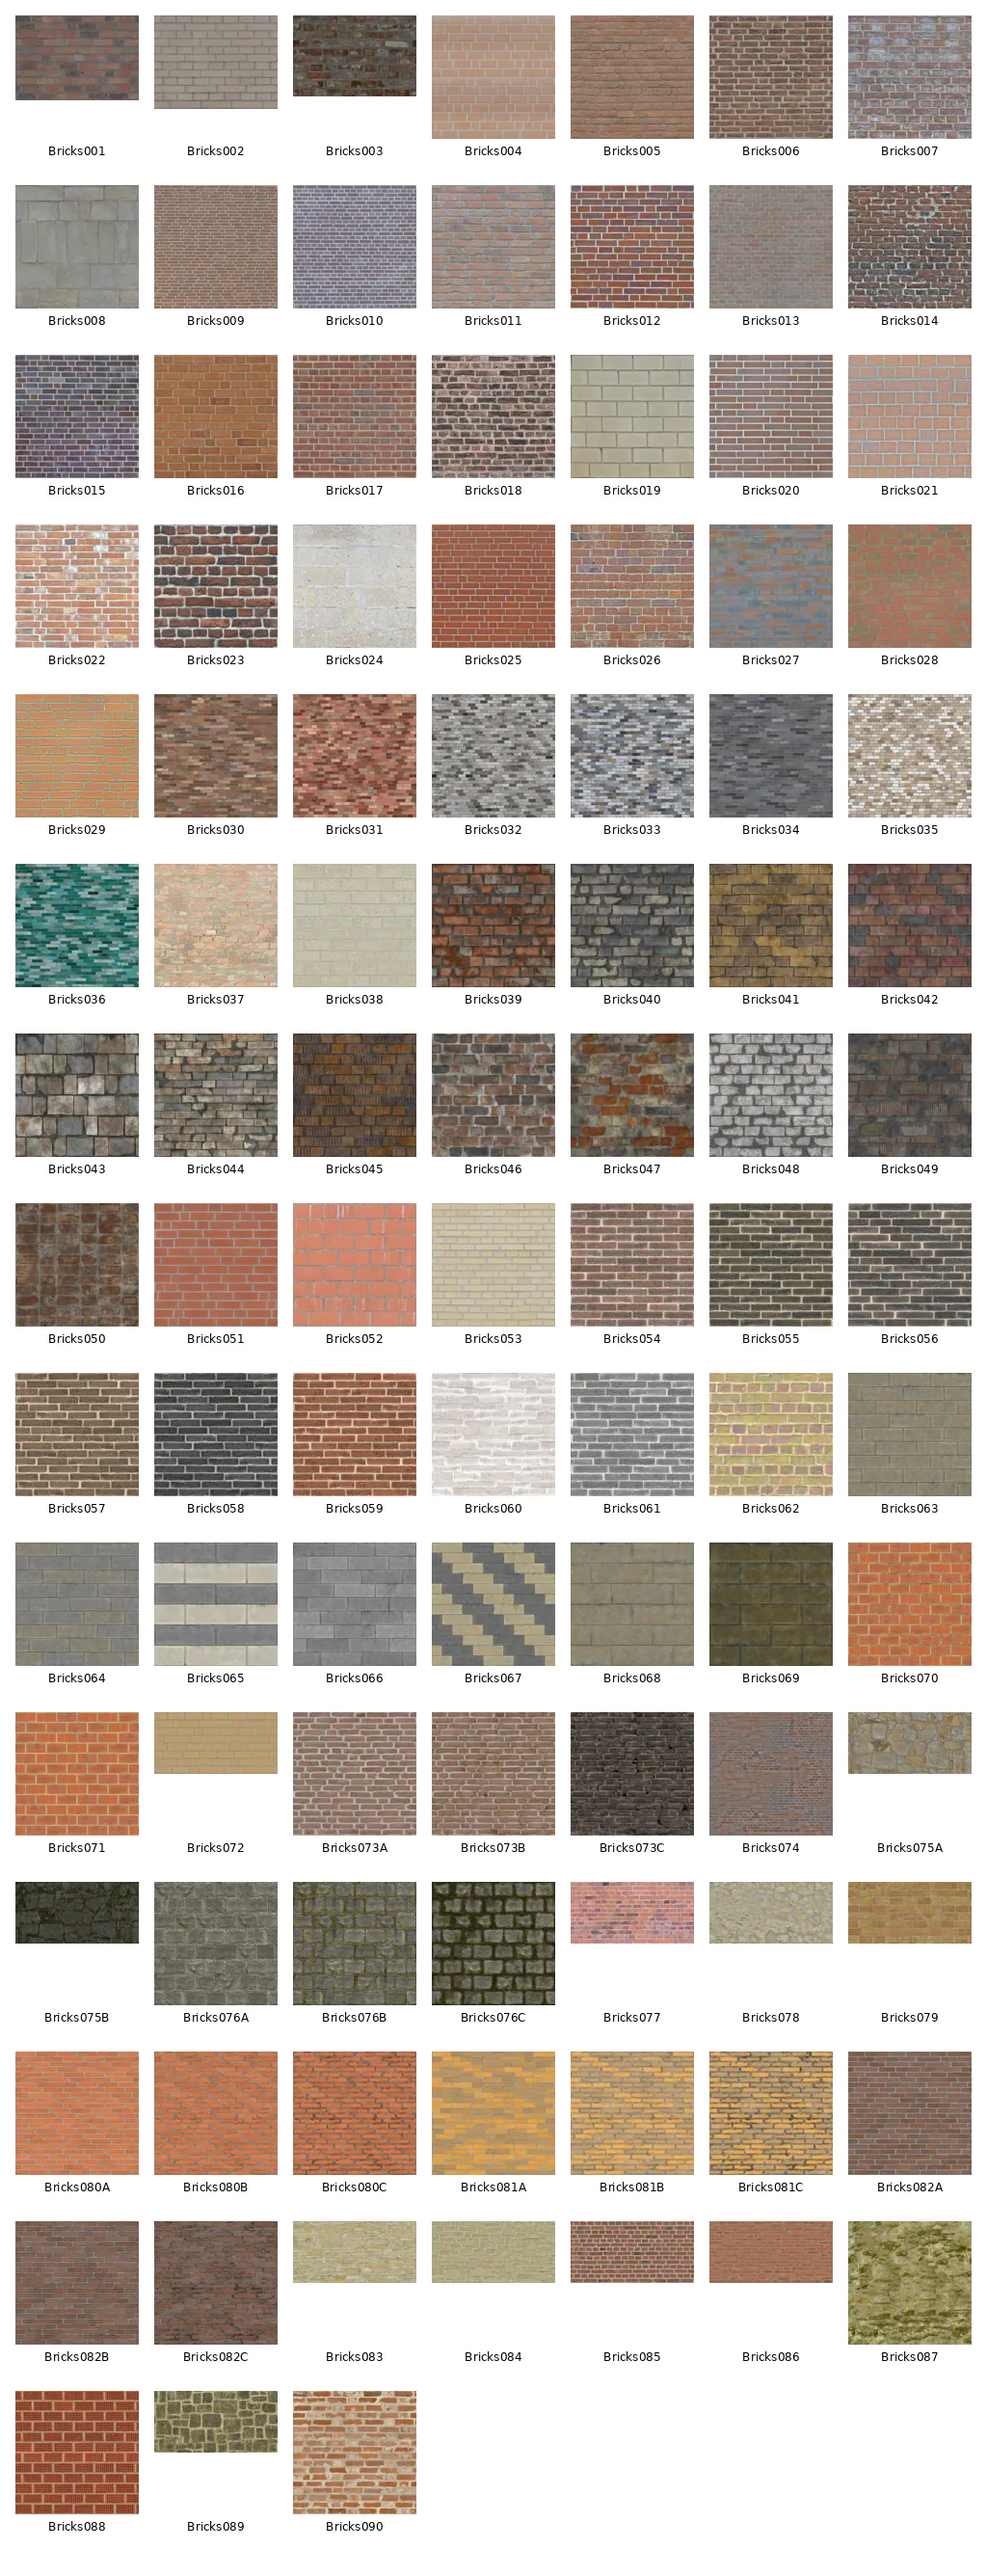
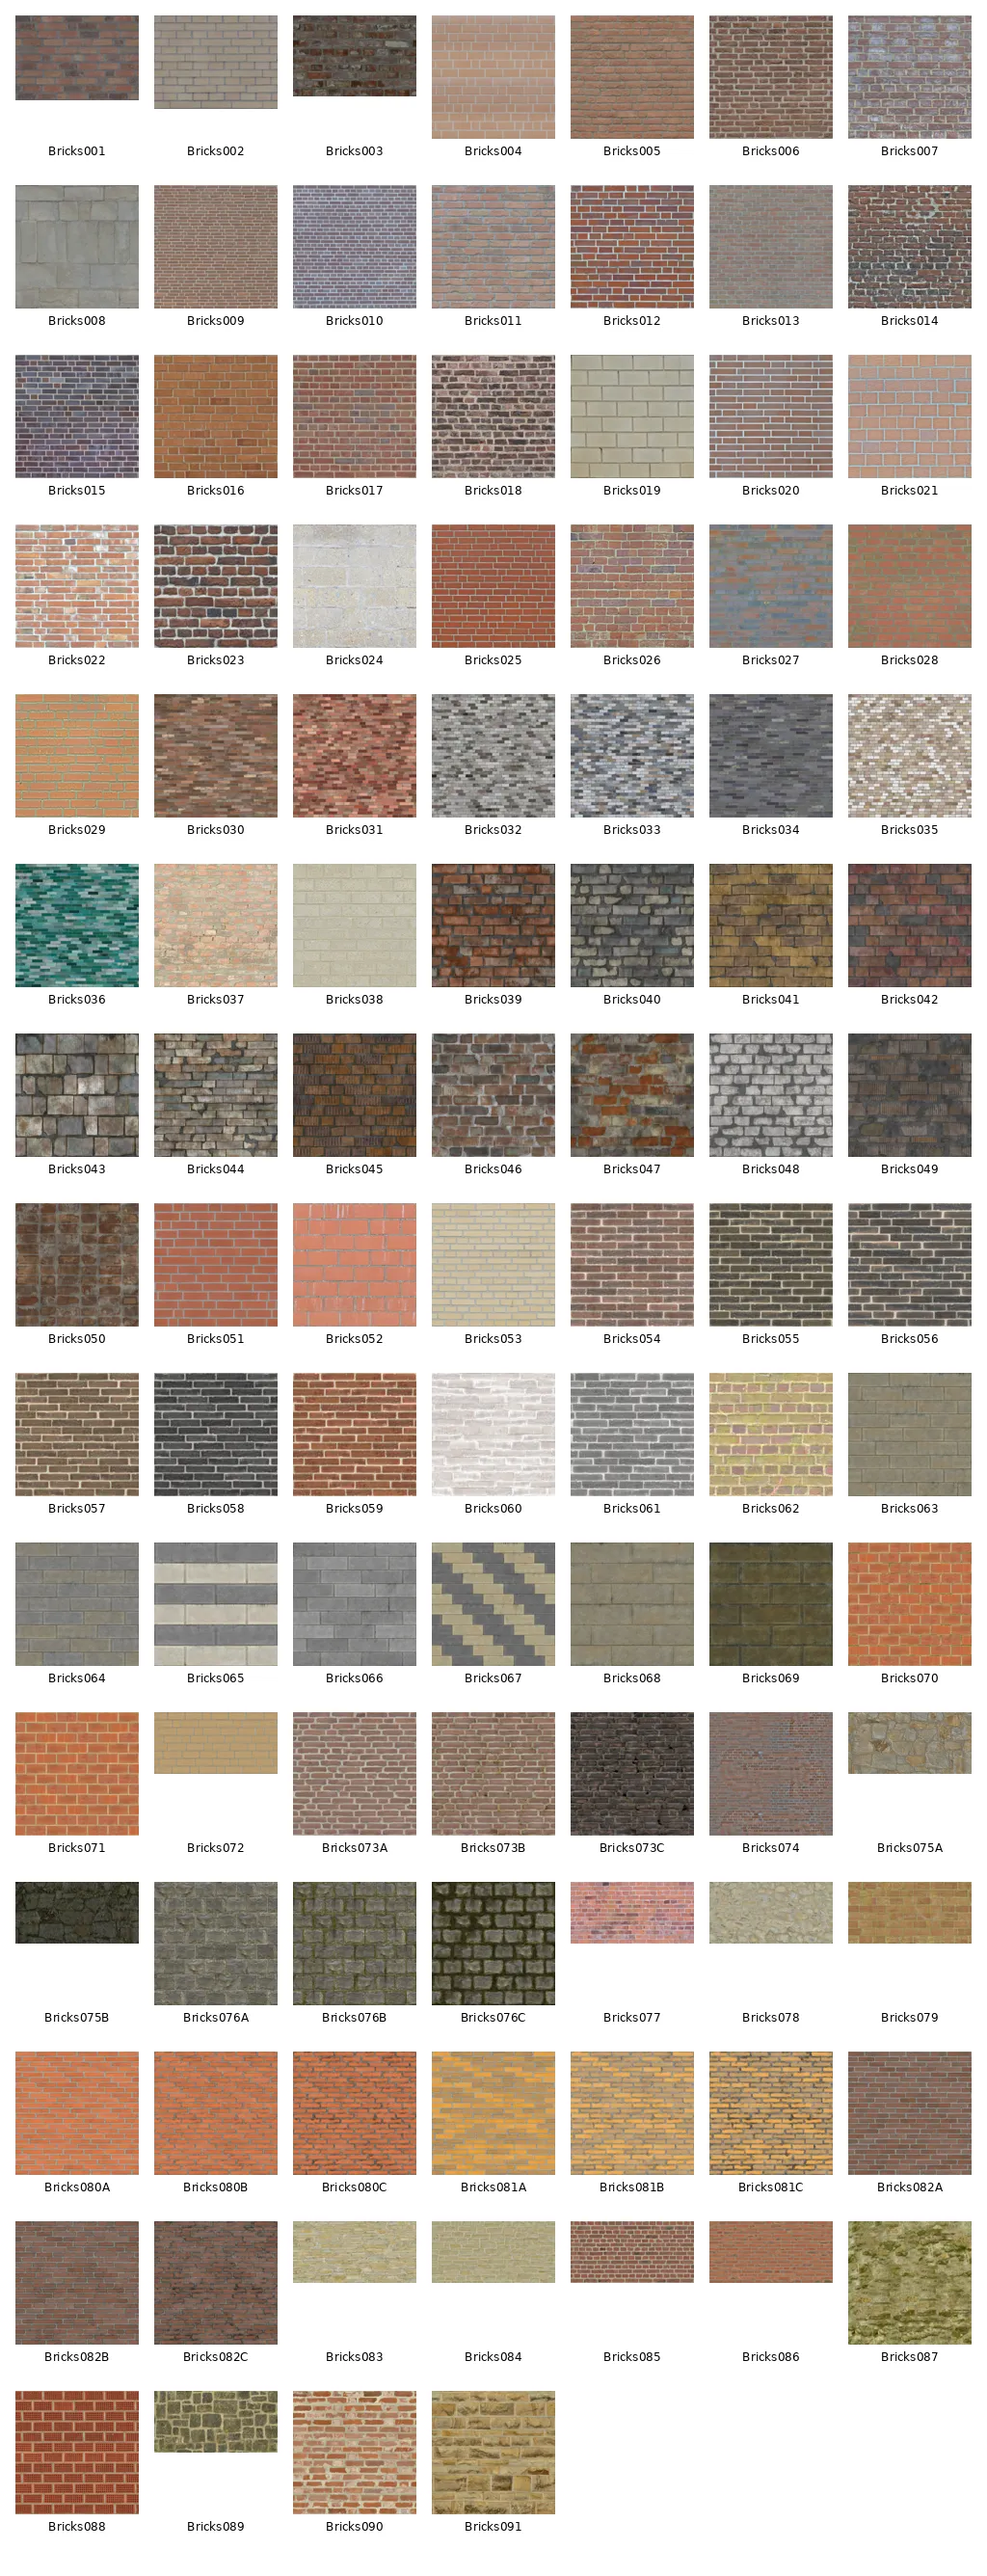
version: v2024.03.27

Changed region(s): [[0.4375, 0.9008, 0.5625, 0.994]]

diff --git a/README.md b/README.md
@@ -5,17 +5,17 @@ The texture are resized to 3 sizes, so you can choose quality.
 
 3 qualities available: 256, 512 and 1024 pixels width.
 
-Current version: 2024.02.29<br>
-Total textures: 1365
+Current version: 2024.03.27<br>
+Total textures: 1369
 
 ## Install
 
 Just download the .sh3t file you want and use the texture library import feature from Sweethome3D from "Furniture" menu.
 
 
-* [ambientcg_1024.sh3t](https://fenouil-drive.mycozy.cloud/public?sharecode=QyiDq6EIACQi) - 203.1 MB
+* [ambientcg_1024.sh3t](https://fenouil-drive.mycozy.cloud/public?sharecode=QyiDq6EIACQi) - 203.9 MB
 
-* [ambientcg_512.sh3t](https://fenouil-drive.mycozy.cloud/public?sharecode=u2Ps0zAB8cij) - 52.8 MB
+* [ambientcg_512.sh3t](https://fenouil-drive.mycozy.cloud/public?sharecode=u2Ps0zAB8cij) - 53.0 MB
 
 * [ambientcg_256.sh3t](https://fenouil-drive.mycozy.cloud/public?sharecode=3gsbVKG3PFBM) - 14.0 MB
 
@@ -56,260 +56,260 @@ The current code and content follow the same licence.
 
 ### Asphalt
 <picture>
-  <img alt="Preview of Asphalt" src="https://raw.githubusercontent.com/fabien-michel/sweethome3d-textures-ambientcg/v2024.02.29/previews/Asphalt.webp">
+  <img alt="Preview of Asphalt" src="https://raw.githubusercontent.com/fabien-michel/sweethome3d-textures-ambientcg/v2024.03.27/previews/Asphalt.webp">
 </picture>
 
 ### Bamboo
 <picture>
-  <img alt="Preview of Bamboo" src="https://raw.githubusercontent.com/fabien-michel/sweethome3d-textures-ambientcg/v2024.02.29/previews/Bamboo.webp">
+  <img alt="Preview of Bamboo" src="https://raw.githubusercontent.com/fabien-michel/sweethome3d-textures-ambientcg/v2024.03.27/previews/Bamboo.webp">
 </picture>
 
 ### Bark
 <picture>
-  <img alt="Preview of Bark" src="https://raw.githubusercontent.com/fabien-michel/sweethome3d-textures-ambientcg/v2024.02.29/previews/Bark.webp">
+  <img alt="Preview of Bark" src="https://raw.githubusercontent.com/fabien-michel/sweethome3d-textures-ambientcg/v2024.03.27/previews/Bark.webp">
 </picture>
 
 ### Bricks
 <picture>
-  <img alt="Preview of Bricks" src="https://raw.githubusercontent.com/fabien-michel/sweethome3d-textures-ambientcg/v2024.02.29/previews/Bricks.webp">
+  <img alt="Preview of Bricks" src="https://raw.githubusercontent.com/fabien-michel/sweethome3d-textures-ambientcg/v2024.03.27/previews/Bricks.webp">
 </picture>
 
 ### Cardboard
 <picture>
-  <img alt="Preview of Cardboard" src="https://raw.githubusercontent.com/fabien-michel/sweethome3d-textures-ambientcg/v2024.02.29/previews/Cardboard.webp">
+  <img alt="Preview of Cardboard" src="https://raw.githubusercontent.com/fabien-michel/sweethome3d-textures-ambientcg/v2024.03.27/previews/Cardboard.webp">
 </picture>
 
 ### Carpet
 <picture>
-  <img alt="Preview of Carpet" src="https://raw.githubusercontent.com/fabien-michel/sweethome3d-textures-ambientcg/v2024.02.29/previews/Carpet.webp">
+  <img alt="Preview of Carpet" src="https://raw.githubusercontent.com/fabien-michel/sweethome3d-textures-ambientcg/v2024.03.27/previews/Carpet.webp">
 </picture>
 
 ### Chainmail
 <picture>
-  <img alt="Preview of Chainmail" src="https://raw.githubusercontent.com/fabien-michel/sweethome3d-textures-ambientcg/v2024.02.29/previews/Chainmail.webp">
+  <img alt="Preview of Chainmail" src="https://raw.githubusercontent.com/fabien-michel/sweethome3d-textures-ambientcg/v2024.03.27/previews/Chainmail.webp">
 </picture>
 
 ### Chipboard
 <picture>
-  <img alt="Preview of Chipboard" src="https://raw.githubusercontent.com/fabien-michel/sweethome3d-textures-ambientcg/v2024.02.29/previews/Chipboard.webp">
+  <img alt="Preview of Chipboard" src="https://raw.githubusercontent.com/fabien-michel/sweethome3d-textures-ambientcg/v2024.03.27/previews/Chipboard.webp">
 </picture>
 
 ### Clay
 <picture>
-  <img alt="Preview of Clay" src="https://raw.githubusercontent.com/fabien-michel/sweethome3d-textures-ambientcg/v2024.02.29/previews/Clay.webp">
+  <img alt="Preview of Clay" src="https://raw.githubusercontent.com/fabien-michel/sweethome3d-textures-ambientcg/v2024.03.27/previews/Clay.webp">
 </picture>
 
 ### Concrete
 <picture>
-  <img alt="Preview of Concrete" src="https://raw.githubusercontent.com/fabien-michel/sweethome3d-textures-ambientcg/v2024.02.29/previews/Concrete.webp">
+  <img alt="Preview of Concrete" src="https://raw.githubusercontent.com/fabien-michel/sweethome3d-textures-ambientcg/v2024.03.27/previews/Concrete.webp">
 </picture>
 
 ### Cork
 <picture>
-  <img alt="Preview of Cork" src="https://raw.githubusercontent.com/fabien-michel/sweethome3d-textures-ambientcg/v2024.02.29/previews/Cork.webp">
+  <img alt="Preview of Cork" src="https://raw.githubusercontent.com/fabien-michel/sweethome3d-textures-ambientcg/v2024.03.27/previews/Cork.webp">
 </picture>
 
 ### CorrugatedSteel
 <picture>
-  <img alt="Preview of CorrugatedSteel" src="https://raw.githubusercontent.com/fabien-michel/sweethome3d-textures-ambientcg/v2024.02.29/previews/CorrugatedSteel.webp">
+  <img alt="Preview of CorrugatedSteel" src="https://raw.githubusercontent.com/fabien-michel/sweethome3d-textures-ambientcg/v2024.03.27/previews/CorrugatedSteel.webp">
 </picture>
 
 ### DiamondPlate
 <picture>
-  <img alt="Preview of DiamondPlate" src="https://raw.githubusercontent.com/fabien-michel/sweethome3d-textures-ambientcg/v2024.02.29/previews/DiamondPlate.webp">
+  <img alt="Preview of DiamondPlate" src="https://raw.githubusercontent.com/fabien-michel/sweethome3d-textures-ambientcg/v2024.03.27/previews/DiamondPlate.webp">
 </picture>
 
 ### Fabric
 <picture>
-  <img alt="Preview of Fabric" src="https://raw.githubusercontent.com/fabien-michel/sweethome3d-textures-ambientcg/v2024.02.29/previews/Fabric.webp">
+  <img alt="Preview of Fabric" src="https://raw.githubusercontent.com/fabien-michel/sweethome3d-textures-ambientcg/v2024.03.27/previews/Fabric.webp">
 </picture>
 
 ### Foil
 <picture>
-  <img alt="Preview of Foil" src="https://raw.githubusercontent.com/fabien-michel/sweethome3d-textures-ambientcg/v2024.02.29/previews/Foil.webp">
+  <img alt="Preview of Foil" src="https://raw.githubusercontent.com/fabien-michel/sweethome3d-textures-ambientcg/v2024.03.27/previews/Foil.webp">
 </picture>
 
 ### GlazedTerracotta
 <picture>
-  <img alt="Preview of GlazedTerracotta" src="https://raw.githubusercontent.com/fabien-michel/sweethome3d-textures-ambientcg/v2024.02.29/previews/GlazedTerracotta.webp">
+  <img alt="Preview of GlazedTerracotta" src="https://raw.githubusercontent.com/fabien-michel/sweethome3d-textures-ambientcg/v2024.03.27/previews/GlazedTerracotta.webp">
 </picture>
 
 ### Granite
 <picture>
-  <img alt="Preview of Granite" src="https://raw.githubusercontent.com/fabien-michel/sweethome3d-textures-ambientcg/v2024.02.29/previews/Granite.webp">
+  <img alt="Preview of Granite" src="https://raw.githubusercontent.com/fabien-michel/sweethome3d-textures-ambientcg/v2024.03.27/previews/Granite.webp">
 </picture>
 
 ### Grass
 <picture>
-  <img alt="Preview of Grass" src="https://raw.githubusercontent.com/fabien-michel/sweethome3d-textures-ambientcg/v2024.02.29/previews/Grass.webp">
+  <img alt="Preview of Grass" src="https://raw.githubusercontent.com/fabien-michel/sweethome3d-textures-ambientcg/v2024.03.27/previews/Grass.webp">
 </picture>
 
 ### Gravel
 <picture>
-  <img alt="Preview of Gravel" src="https://raw.githubusercontent.com/fabien-michel/sweethome3d-textures-ambientcg/v2024.02.29/previews/Gravel.webp">
+  <img alt="Preview of Gravel" src="https://raw.githubusercontent.com/fabien-michel/sweethome3d-textures-ambientcg/v2024.03.27/previews/Gravel.webp">
 </picture>
 
 ### Ground
 <picture>
-  <img alt="Preview of Ground" src="https://raw.githubusercontent.com/fabien-michel/sweethome3d-textures-ambientcg/v2024.02.29/previews/Ground.webp">
+  <img alt="Preview of Ground" src="https://raw.githubusercontent.com/fabien-michel/sweethome3d-textures-ambientcg/v2024.03.27/previews/Ground.webp">
 </picture>
 
 ### Logs
 <picture>
-  <img alt="Preview of Logs" src="https://raw.githubusercontent.com/fabien-michel/sweethome3d-textures-ambientcg/v2024.02.29/previews/Logs.webp">
+  <img alt="Preview of Logs" src="https://raw.githubusercontent.com/fabien-michel/sweethome3d-textures-ambientcg/v2024.03.27/previews/Logs.webp">
 </picture>
 
 ### Marble
 <picture>
-  <img alt="Preview of Marble" src="https://raw.githubusercontent.com/fabien-michel/sweethome3d-textures-ambientcg/v2024.02.29/previews/Marble.webp">
+  <img alt="Preview of Marble" src="https://raw.githubusercontent.com/fabien-michel/sweethome3d-textures-ambientcg/v2024.03.27/previews/Marble.webp">
 </picture>
 
 ### Metal
 <picture>
-  <img alt="Preview of Metal" src="https://raw.githubusercontent.com/fabien-michel/sweethome3d-textures-ambientcg/v2024.02.29/previews/Metal.webp">
+  <img alt="Preview of Metal" src="https://raw.githubusercontent.com/fabien-michel/sweethome3d-textures-ambientcg/v2024.03.27/previews/Metal.webp">
 </picture>
 
 ### Moss
 <picture>
-  <img alt="Preview of Moss" src="https://raw.githubusercontent.com/fabien-michel/sweethome3d-textures-ambientcg/v2024.02.29/previews/Moss.webp">
+  <img alt="Preview of Moss" src="https://raw.githubusercontent.com/fabien-michel/sweethome3d-textures-ambientcg/v2024.03.27/previews/Moss.webp">
 </picture>
 
 ### Net
 <picture>
-  <img alt="Preview of Net" src="https://raw.githubusercontent.com/fabien-michel/sweethome3d-textures-ambientcg/v2024.02.29/previews/Net.webp">
+  <img alt="Preview of Net" src="https://raw.githubusercontent.com/fabien-michel/sweethome3d-textures-ambientcg/v2024.03.27/previews/Net.webp">
 </picture>
 
 ### OfficeCeiling
 <picture>
-  <img alt="Preview of OfficeCeiling" src="https://raw.githubusercontent.com/fabien-michel/sweethome3d-textures-ambientcg/v2024.02.29/previews/OfficeCeiling.webp">
+  <img alt="Preview of OfficeCeiling" src="https://raw.githubusercontent.com/fabien-michel/sweethome3d-textures-ambientcg/v2024.03.27/previews/OfficeCeiling.webp">
 </picture>
 
 ### Paint
 <picture>
-  <img alt="Preview of Paint" src="https://raw.githubusercontent.com/fabien-michel/sweethome3d-textures-ambientcg/v2024.02.29/previews/Paint.webp">
+  <img alt="Preview of Paint" src="https://raw.githubusercontent.com/fabien-michel/sweethome3d-textures-ambientcg/v2024.03.27/previews/Paint.webp">
 </picture>
 
 ### Paper
 <picture>
-  <img alt="Preview of Paper" src="https://raw.githubusercontent.com/fabien-michel/sweethome3d-textures-ambientcg/v2024.02.29/previews/Paper.webp">
+  <img alt="Preview of Paper" src="https://raw.githubusercontent.com/fabien-michel/sweethome3d-textures-ambientcg/v2024.03.27/previews/Paper.webp">
 </picture>
 
 ### PavingStones
 <picture>
-  <img alt="Preview of PavingStones" src="https://raw.githubusercontent.com/fabien-michel/sweethome3d-textures-ambientcg/v2024.02.29/previews/PavingStones.webp">
+  <img alt="Preview of PavingStones" src="https://raw.githubusercontent.com/fabien-michel/sweethome3d-textures-ambientcg/v2024.03.27/previews/PavingStones.webp">
 </picture>
 
 ### Planks
 <picture>
-  <img alt="Preview of Planks" src="https://raw.githubusercontent.com/fabien-michel/sweethome3d-textures-ambientcg/v2024.02.29/previews/Planks.webp">
+  <img alt="Preview of Planks" src="https://raw.githubusercontent.com/fabien-michel/sweethome3d-textures-ambientcg/v2024.03.27/previews/Planks.webp">
 </picture>
 
 ### Plaster
 <picture>
-  <img alt="Preview of Plaster" src="https://raw.githubusercontent.com/fabien-michel/sweethome3d-textures-ambientcg/v2024.02.29/previews/Plaster.webp">
+  <img alt="Preview of Plaster" src="https://raw.githubusercontent.com/fabien-michel/sweethome3d-textures-ambientcg/v2024.03.27/previews/Plaster.webp">
 </picture>
 
 ### Plastic
 <picture>
-  <img alt="Preview of Plastic" src="https://raw.githubusercontent.com/fabien-michel/sweethome3d-textures-ambientcg/v2024.02.29/previews/Plastic.webp">
+  <img alt="Preview of Plastic" src="https://raw.githubusercontent.com/fabien-michel/sweethome3d-textures-ambientcg/v2024.03.27/previews/Plastic.webp">
 </picture>
 
 ### Porcelain
 <picture>
-  <img alt="Preview of Porcelain" src="https://raw.githubusercontent.com/fabien-michel/sweethome3d-textures-ambientcg/v2024.02.29/previews/Porcelain.webp">
+  <img alt="Preview of Porcelain" src="https://raw.githubusercontent.com/fabien-michel/sweethome3d-textures-ambientcg/v2024.03.27/previews/Porcelain.webp">
 </picture>
 
 ### Road
 <picture>
-  <img alt="Preview of Road" src="https://raw.githubusercontent.com/fabien-michel/sweethome3d-textures-ambientcg/v2024.02.29/previews/Road.webp">
+  <img alt="Preview of Road" src="https://raw.githubusercontent.com/fabien-michel/sweethome3d-textures-ambientcg/v2024.03.27/previews/Road.webp">
 </picture>
 
 ### Rock
 <picture>
-  <img alt="Preview of Rock" src="https://raw.githubusercontent.com/fabien-michel/sweethome3d-textures-ambientcg/v2024.02.29/previews/Rock.webp">
+  <img alt="Preview of Rock" src="https://raw.githubusercontent.com/fabien-michel/sweethome3d-textures-ambientcg/v2024.03.27/previews/Rock.webp">
 </picture>
 
 ### Rocks
 <picture>
-  <img alt="Preview of Rocks" src="https://raw.githubusercontent.com/fabien-michel/sweethome3d-textures-ambientcg/v2024.02.29/previews/Rocks.webp">
+  <img alt="Preview of Rocks" src="https://raw.githubusercontent.com/fabien-michel/sweethome3d-textures-ambientcg/v2024.03.27/previews/Rocks.webp">
 </picture>
 
 ### RoofingTiles
 <picture>
-  <img alt="Preview of RoofingTiles" src="https://raw.githubusercontent.com/fabien-michel/sweethome3d-textures-ambientcg/v2024.02.29/previews/RoofingTiles.webp">
+  <img alt="Preview of RoofingTiles" src="https://raw.githubusercontent.com/fabien-michel/sweethome3d-textures-ambientcg/v2024.03.27/previews/RoofingTiles.webp">
 </picture>
 
 ### Rubber
 <picture>
-  <img alt="Preview of Rubber" src="https://raw.githubusercontent.com/fabien-michel/sweethome3d-textures-ambientcg/v2024.02.29/previews/Rubber.webp">
+  <img alt="Preview of Rubber" src="https://raw.githubusercontent.com/fabien-michel/sweethome3d-textures-ambientcg/v2024.03.27/previews/Rubber.webp">
 </picture>
 
 ### Rust
 <picture>
-  <img alt="Preview of Rust" src="https://raw.githubusercontent.com/fabien-michel/sweethome3d-textures-ambientcg/v2024.02.29/previews/Rust.webp">
+  <img alt="Preview of Rust" src="https://raw.githubusercontent.com/fabien-michel/sweethome3d-textures-ambientcg/v2024.03.27/previews/Rust.webp">
 </picture>
 
 ### ScatteredLeaves
 <picture>
-  <img alt="Preview of ScatteredLeaves" src="https://raw.githubusercontent.com/fabien-michel/sweethome3d-textures-ambientcg/v2024.02.29/previews/ScatteredLeaves.webp">
+  <img alt="Preview of ScatteredLeaves" src="https://raw.githubusercontent.com/fabien-michel/sweethome3d-textures-ambientcg/v2024.03.27/previews/ScatteredLeaves.webp">
 </picture>
 
 ### Snow
 <picture>
-  <img alt="Preview of Snow" src="https://raw.githubusercontent.com/fabien-michel/sweethome3d-textures-ambientcg/v2024.02.29/previews/Snow.webp">
+  <img alt="Preview of Snow" src="https://raw.githubusercontent.com/fabien-michel/sweethome3d-textures-ambientcg/v2024.03.27/previews/Snow.webp">
 </picture>
 
 ### SolarPanel
 <picture>
-  <img alt="Preview of SolarPanel" src="https://raw.githubusercontent.com/fabien-michel/sweethome3d-textures-ambientcg/v2024.02.29/previews/SolarPanel.webp">
+  <img alt="Preview of SolarPanel" src="https://raw.githubusercontent.com/fabien-michel/sweethome3d-textures-ambientcg/v2024.03.27/previews/SolarPanel.webp">
 </picture>
 
 ### Tatami
 <picture>
-  <img alt="Preview of Tatami" src="https://raw.githubusercontent.com/fabien-michel/sweethome3d-textures-ambientcg/v2024.02.29/previews/Tatami.webp">
+  <img alt="Preview of Tatami" src="https://raw.githubusercontent.com/fabien-michel/sweethome3d-textures-ambientcg/v2024.03.27/previews/Tatami.webp">
 </picture>
 
 ### Terrazzo
 <picture>
-  <img alt="Preview of Terrazzo" src="https://raw.githubusercontent.com/fabien-michel/sweethome3d-textures-ambientcg/v2024.02.29/previews/Terrazzo.webp">
+  <img alt="Preview of Terrazzo" src="https://raw.githubusercontent.com/fabien-michel/sweethome3d-textures-ambientcg/v2024.03.27/previews/Terrazzo.webp">
 </picture>
 
 ### ThatchedRoof
 <picture>
-  <img alt="Preview of ThatchedRoof" src="https://raw.githubusercontent.com/fabien-michel/sweethome3d-textures-ambientcg/v2024.02.29/previews/ThatchedRoof.webp">
+  <img alt="Preview of ThatchedRoof" src="https://raw.githubusercontent.com/fabien-michel/sweethome3d-textures-ambientcg/v2024.03.27/previews/ThatchedRoof.webp">
 </picture>
 
 ### Tiles
 <picture>
-  <img alt="Preview of Tiles" src="https://raw.githubusercontent.com/fabien-michel/sweethome3d-textures-ambientcg/v2024.02.29/previews/Tiles.webp">
+  <img alt="Preview of Tiles" src="https://raw.githubusercontent.com/fabien-michel/sweethome3d-textures-ambientcg/v2024.03.27/previews/Tiles.webp">
 </picture>
 
 ### Travertine
 <picture>
-  <img alt="Preview of Travertine" src="https://raw.githubusercontent.com/fabien-michel/sweethome3d-textures-ambientcg/v2024.02.29/previews/Travertine.webp">
+  <img alt="Preview of Travertine" src="https://raw.githubusercontent.com/fabien-michel/sweethome3d-textures-ambientcg/v2024.03.27/previews/Travertine.webp">
 </picture>
 
 ### Wallpaper
 <picture>
-  <img alt="Preview of Wallpaper" src="https://raw.githubusercontent.com/fabien-michel/sweethome3d-textures-ambientcg/v2024.02.29/previews/Wallpaper.webp">
+  <img alt="Preview of Wallpaper" src="https://raw.githubusercontent.com/fabien-michel/sweethome3d-textures-ambientcg/v2024.03.27/previews/Wallpaper.webp">
 </picture>
 
 ### Wood
 <picture>
-  <img alt="Preview of Wood" src="https://raw.githubusercontent.com/fabien-michel/sweethome3d-textures-ambientcg/v2024.02.29/previews/Wood.webp">
+  <img alt="Preview of Wood" src="https://raw.githubusercontent.com/fabien-michel/sweethome3d-textures-ambientcg/v2024.03.27/previews/Wood.webp">
 </picture>
 
 ### WoodChips
 <picture>
-  <img alt="Preview of WoodChips" src="https://raw.githubusercontent.com/fabien-michel/sweethome3d-textures-ambientcg/v2024.02.29/previews/WoodChips.webp">
+  <img alt="Preview of WoodChips" src="https://raw.githubusercontent.com/fabien-michel/sweethome3d-textures-ambientcg/v2024.03.27/previews/WoodChips.webp">
 </picture>
 
 ### WoodFloor
 <picture>
-  <img alt="Preview of WoodFloor" src="https://raw.githubusercontent.com/fabien-michel/sweethome3d-textures-ambientcg/v2024.02.29/previews/WoodFloor.webp">
+  <img alt="Preview of WoodFloor" src="https://raw.githubusercontent.com/fabien-michel/sweethome3d-textures-ambientcg/v2024.03.27/previews/WoodFloor.webp">
 </picture>
 
 ### WoodSiding
 <picture>
-  <img alt="Preview of WoodSiding" src="https://raw.githubusercontent.com/fabien-michel/sweethome3d-textures-ambientcg/v2024.02.29/previews/WoodSiding.webp">
+  <img alt="Preview of WoodSiding" src="https://raw.githubusercontent.com/fabien-michel/sweethome3d-textures-ambientcg/v2024.03.27/previews/WoodSiding.webp">
 </picture>
